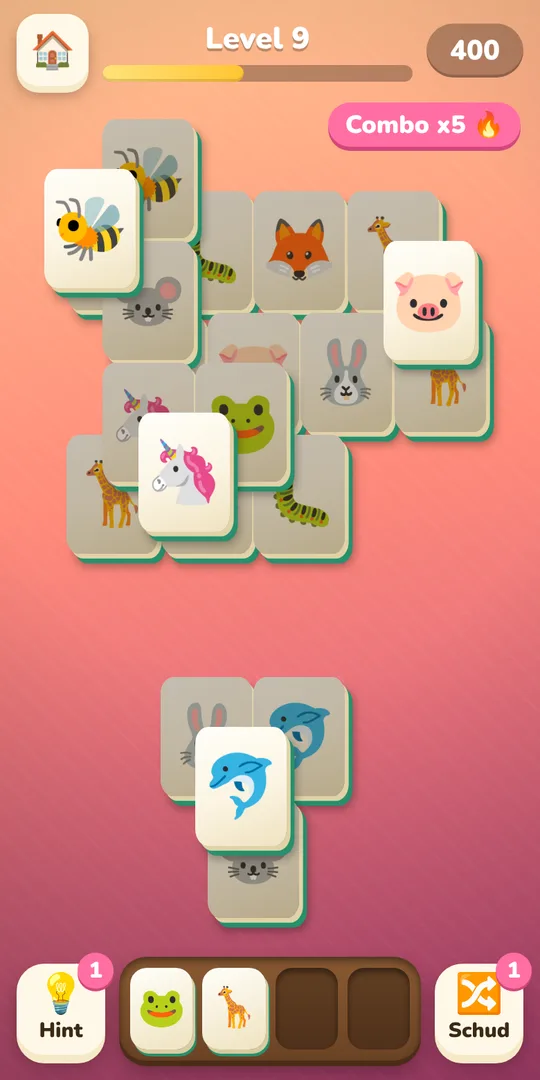
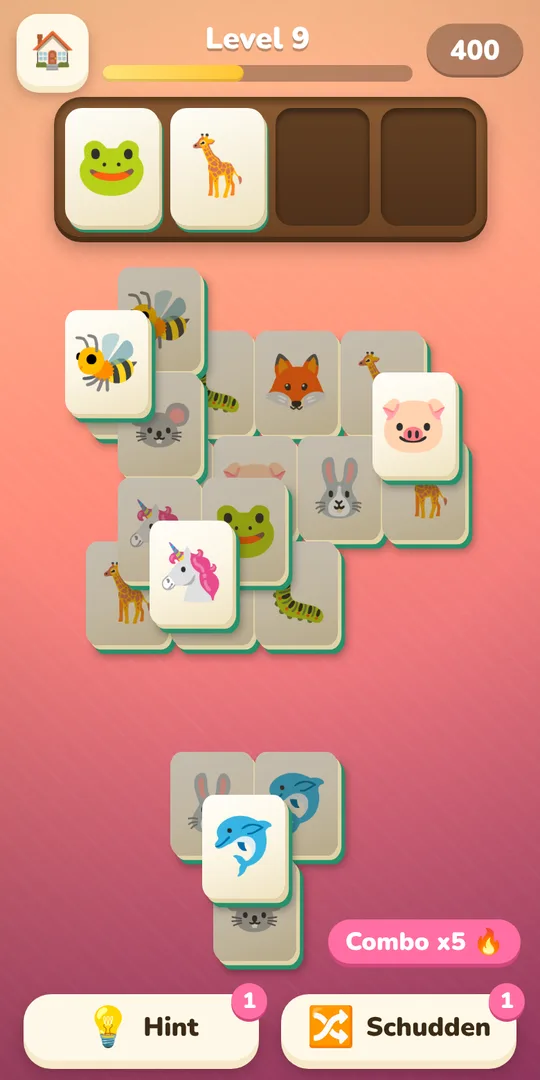
v1.2: tray on top like Vita, bigger board, fixed tray size on wide screens
Claude-Session: https://claude.ai/code/session_01XYWVKXoeBqWAW9GrDwoi7d

diff --git a/play/style.css b/play/style.css
@@ -172,7 +172,7 @@ h3.sec { color: #fff; font-size: 22px; margin: 6px 4px 10px; text-shadow: 0 2px 
   -webkit-text-stroke: 2px rgba(120,60,0,.35); text-shadow: 0 5px 0 #e08a00, 0 10px 24px rgba(0,0,0,.4); opacity: 0; z-index: 50; }
 #praise.show { animation: praise 1.1s ease forwards; }
 @keyframes praise { 0% { opacity: 0; transform: scale(.3) rotate(-8deg); } 20% { opacity: 1; transform: scale(1.15) rotate(2deg); } 35% { transform: scale(1); } 80% { opacity: 1; } 100% { opacity: 0; transform: translateY(-40px); } }
-#comboTag { position: absolute; top: 74px; right: 14px; background: var(--pink); color: #fff; border-radius: 999px; padding: 4px 12px; font-size: 18px; font-weight: 900; box-shadow: 0 3px 0 var(--pink-d); opacity: 0; transform: scale(.5); transition: all .2s; z-index: 40; }
+#comboTag { position: absolute; bottom: 84px; right: 14px; background: var(--pink); color: #fff; border-radius: 999px; padding: 4px 12px; font-size: 18px; font-weight: 900; box-shadow: 0 3px 0 var(--pink-d); opacity: 0; transform: scale(.5); transition: all .2s; z-index: 40; }
 #comboTag.on { opacity: 1; transform: scale(1); }
 
 .float { position: fixed; z-index: 60; pointer-events: none; color: #fff; font-weight: 900; font-size: 26px; text-shadow: 0 2px 0 #c77700, 0 4px 8px rgba(0,0,0,.4); animation: floatUp .9s ease-out forwards; }
@@ -216,15 +216,16 @@ h3.sec { color: #fff; font-size: 22px; margin: 6px 4px 10px; text-shadow: 0 2px 
 @media (min-height: 760px) { .home-buttons { gap: 22px; } }
 @media (max-height: 620px) { .logo-tiles { display: none; } .logo { margin: 6px 0; } }
 
-/* ---------- 4-slot tray ---------- */
-.traybar { display: flex; align-items: center; gap: 10px; padding: 8px 12px 14px; }
-.traybar .tool { flex: 0 0 64px; font-size: 15px; padding: 6px 2px 8px; }
-.traybar .tool span { font-size: 28px; }
+/* ---------- 4-slot tray (on top, like Vita) ---------- */
+.traybar { display: flex; justify-content: center; padding: 2px 12px 6px; }
+.toolbar { display: flex; justify-content: center; gap: 16px; padding: 6px 14px 14px; }
+.toolbar .tool { flex: 0 1 170px; flex-direction: row; justify-content: center; gap: 8px; padding: 10px 12px; font-size: 19px; }
+.toolbar .tool span { font-size: 28px; line-height: 1; }
 .tool .badge { position: absolute; top: -8px; right: -6px; min-width: 26px; height: 26px; border-radius: 13px; background: var(--pink); color: #fff; font-style: normal; font-size: 16px; display: grid; place-items: center; box-shadow: 0 2px 0 var(--pink-d); }
 .tool.used { opacity: .45; filter: grayscale(1); }
-#tray { flex: 1; display: grid; grid-template-columns: repeat(4, 1fr); gap: 7px; padding: 8px; border-radius: 20px;
+#tray { --slotw: min(17.5vw, 76px, 9.5vh); display: grid; grid-template-columns: repeat(4, var(--slotw)); gap: 8px; padding: 8px; border-radius: 20px;
   background: linear-gradient(#8a5a33, #6b4224); box-shadow: inset 0 3px 6px rgba(0,0,0,.45), 0 4px 0 #4a2d17, 0 8px 14px rgba(0,0,0,.3); transition: box-shadow .3s; --sfs: 30px; }
-#tray .slot { aspect-ratio: 1 / 1.3; border-radius: 12px; background: rgba(0,0,0,.28); box-shadow: inset 0 3px 5px rgba(0,0,0,.45); position: relative; }
+#tray .slot { aspect-ratio: 1 / 1.24; border-radius: 12px; background: rgba(0,0,0,.28); box-shadow: inset 0 3px 5px rgba(0,0,0,.45); position: relative; }
 #tray.warn { box-shadow: inset 0 3px 6px rgba(0,0,0,.45), 0 4px 0 #4a2d17, 0 0 0 4px #ffb300, 0 8px 18px rgba(255,170,0,.55); }
 #tray.full { box-shadow: inset 0 3px 6px rgba(0,0,0,.45), 0 4px 0 #4a2d17, 0 0 0 4px #ff4d4d, 0 8px 22px rgba(255,60,60,.6); animation: trayPulse 1s ease-in-out infinite; }
 @keyframes trayPulse { 50% { transform: scale(1.02); } }

diff --git a/play/game.js b/play/game.js
@@ -270,13 +270,13 @@
   // ---------- the game ----------
   const SLOTS = Layouts.SLOTS;
   let G = null;
-  const loadCur = () => { try { const c = JSON.parse(localStorage.getItem(CUR) || 'null'); return c && c.v === 2 ? c : null; } catch (e) { return null; } };
+  const loadCur = () => { try { const c = JSON.parse(localStorage.getItem(CUR) || 'null'); return c && c.v === 3 ? c : null; } catch (e) { return null; } };
   const clearCur = () => { try { localStorage.removeItem(CUR); } catch (e) { } };
   function saveCur() {
     if (!G || G.done) return;
     syncClock();
     try {
-      localStorage.setItem(CUR, JSON.stringify({ v: 2, key: G.key, n: G.tiles.length, faces: G.tiles.map(t => t.face), alive: Array.from(G.alive), tray: G.tray, score: G.score, elapsed: G.elapsed, usedHint: G.usedHint, usedShuffle: G.usedShuffle }));
+      localStorage.setItem(CUR, JSON.stringify({ v: 3, key: G.key, n: G.tiles.length, faces: G.tiles.map(t => t.face), alive: Array.from(G.alive), tray: G.tray, score: G.score, elapsed: G.elapsed, usedHint: G.usedHint, usedShuffle: G.usedShuffle }));
     } catch (e) { }
   }
   function syncClock() { if (G && G.tStart) { const n = performance.now(); G.elapsed += (n - G.tStart) / 1000; G.tStart = n; } }
@@ -348,9 +348,9 @@
     let minX = 1e9, maxX = -1e9, minY = 1e9, maxY = -1e9, maxZ = 0;
     for (const t of G.tiles) { minX = Math.min(minX, t.x); maxX = Math.max(maxX, t.x); minY = Math.min(minY, t.y); maxY = Math.max(maxY, t.y); maxZ = Math.max(maxZ, t.z); }
     const cols = (maxX - minX) / 2 + 1, rows = (maxY - minY) / 2 + 1;
-    const ratio = 1.3, dF = 0.12;
+    const ratio = 1.24, dF = 0.12;
     let tw = Math.min((W - 14) / (cols + maxZ * dF + 0.15), (H - 14) / (rows * ratio + maxZ * dF + 0.2));
-    tw = Math.min(tw, 112);
+    tw = Math.min(tw, 150);
     const th = tw * ratio, dz = tw * dF, d = Math.max(3, tw * 0.085);
     const bw = cols * tw + maxZ * dz + d, bh = rows * th + maxZ * dz + d * 1.4;
     const ox = (W - bw) / 2 + maxZ * dz, oy = (H - bh) / 2 + maxZ * dz;

diff --git a/play/index.html b/play/index.html
@@ -5,7 +5,7 @@
 <meta name="viewport" content="width=device-width, initial-scale=1, maximum-scale=1, user-scalable=no, viewport-fit=cover">
 <meta name="theme-color" content="#0b4d3c">
 <title>Oma's Mahjong</title>
-<link rel="stylesheet" href="style.css?v=1.1.1">
+<link rel="stylesheet" href="style.css?v=1.2">
 <script>
   // if anything fails to load, say so instead of showing a dead screen
   window.addEventListener('error', function (e) {
@@ -60,11 +60,13 @@
       </div>
       <div class="chip score" id="score">0</div>
     </div>
-    <div id="boardWrap"><div id="board"></div></div>
     <div class="traybar">
-      <button class="tool" id="btnHint"><span>💡</span>Hint<i class="badge">1</i></button>
       <div id="tray"><div class="slot"></div><div class="slot"></div><div class="slot"></div><div class="slot"></div></div>
-      <button class="tool" id="btnShuffle"><span>🔀</span>Schud<i class="badge">1</i></button>
+    </div>
+    <div id="boardWrap"><div id="board"></div></div>
+    <div class="toolbar">
+      <button class="tool" id="btnHint"><span>💡</span>Hint<i class="badge">1</i></button>
+      <button class="tool" id="btnShuffle"><span>🔀</span>Schudden<i class="badge">1</i></button>
     </div>
     <div id="praise"></div>
     <div id="comboTag"></div>
@@ -114,9 +116,9 @@
 <div id="toast"></div>
 <div id="modal" class="hidden"><div class="modal-box" id="modalBox"></div></div>
 
-<script src="tiles.js?v=1.1.1"></script>
-<script src="audio.js?v=1.1.1"></script>
-<script src="layouts.js?v=1.1.1"></script>
-<script src="game.js?v=1.1.1"></script>
+<script src="tiles.js?v=1.2"></script>
+<script src="audio.js?v=1.2"></script>
+<script src="layouts.js?v=1.2"></script>
+<script src="game.js?v=1.2"></script>
 </body>
 </html>

diff --git a/play/layouts.js b/play/layouts.js
@@ -44,7 +44,7 @@ const Layouts = (() => {
     BASES = [];
     for (const name of NAMES)
       for (let W = 3; W <= 7; W++)
-        for (let H = 3; H <= 9; H++) {
+        for (let H = 3; H <= 7; H++) {
           if (H < W - 1) continue;
           let n = 0;
           for (let r = 0; r < H; r++) for (let c = 0; c < W; c++) if (SHAPES[name](c, r, W, H)) n++;
@@ -272,7 +272,7 @@ const Layouts = (() => {
   }
 
   /* Try several deals for a level and keep the one whose difficulty is closest to the level's target. */
-  function makeDeal(spec, tries = 16) {
+  function makeDeal(spec, tries = 28) {
     const tiles = spec.tiles, nb = neighbors(tiles);
     let best = null;
     for (let k = 0; k < tries; k++) {

diff --git a/index.html b/index.html
@@ -87,7 +87,7 @@ footer { text-align: center; font-size: 15px; opacity: .75; padding-top: 6px; }
       <span class="ico"><svg width="30" height="30" viewBox="0 0 24 24" fill="none" stroke="#fff" stroke-width="2.6" stroke-linecap="round" stroke-linejoin="round" aria-hidden="true"><path d="M12 3v12M6 10l6 6 6-6M4 20h16"/></svg></span>
       <span><b>Download de app</b><small>Voor Android-telefoons en tablets</small></span>
     </a>
-    <p class="meta">Versie 1.1 · 0,2 MB · werkt ook zonder internet</p>
+    <p class="meta">Versie 1.2 · 0,2 MB · werkt ook zonder internet</p>
   </header>
 
   <section class="shots" aria-label="Schermafbeeldingen">
